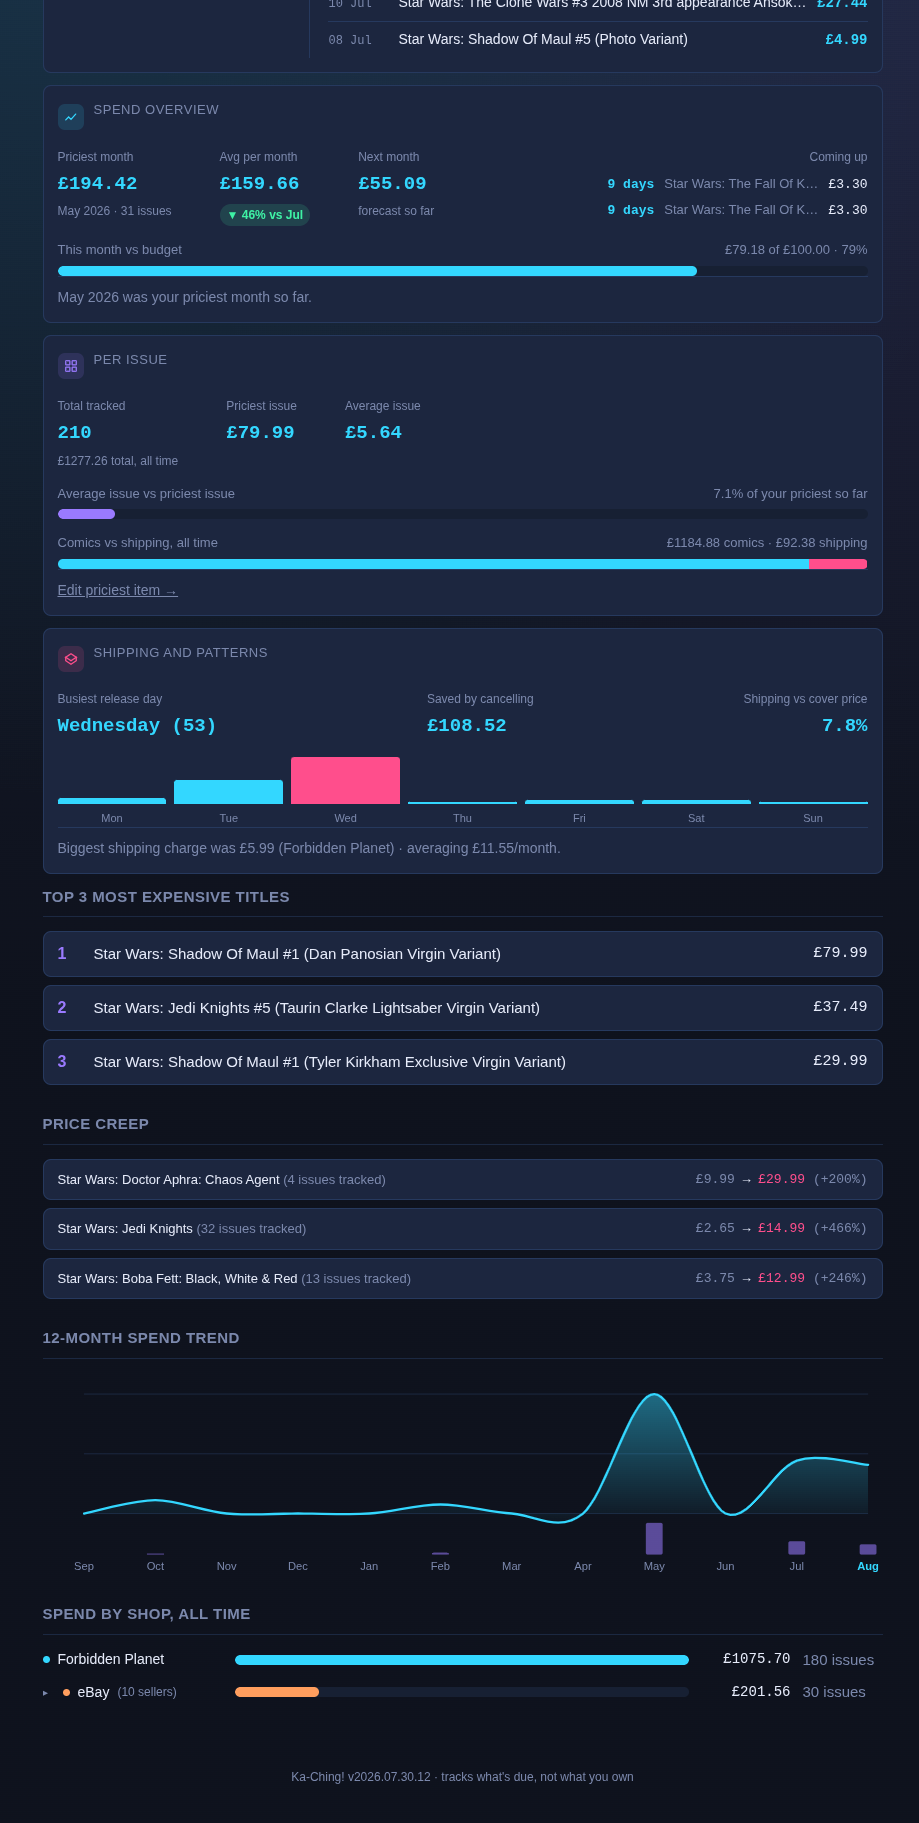
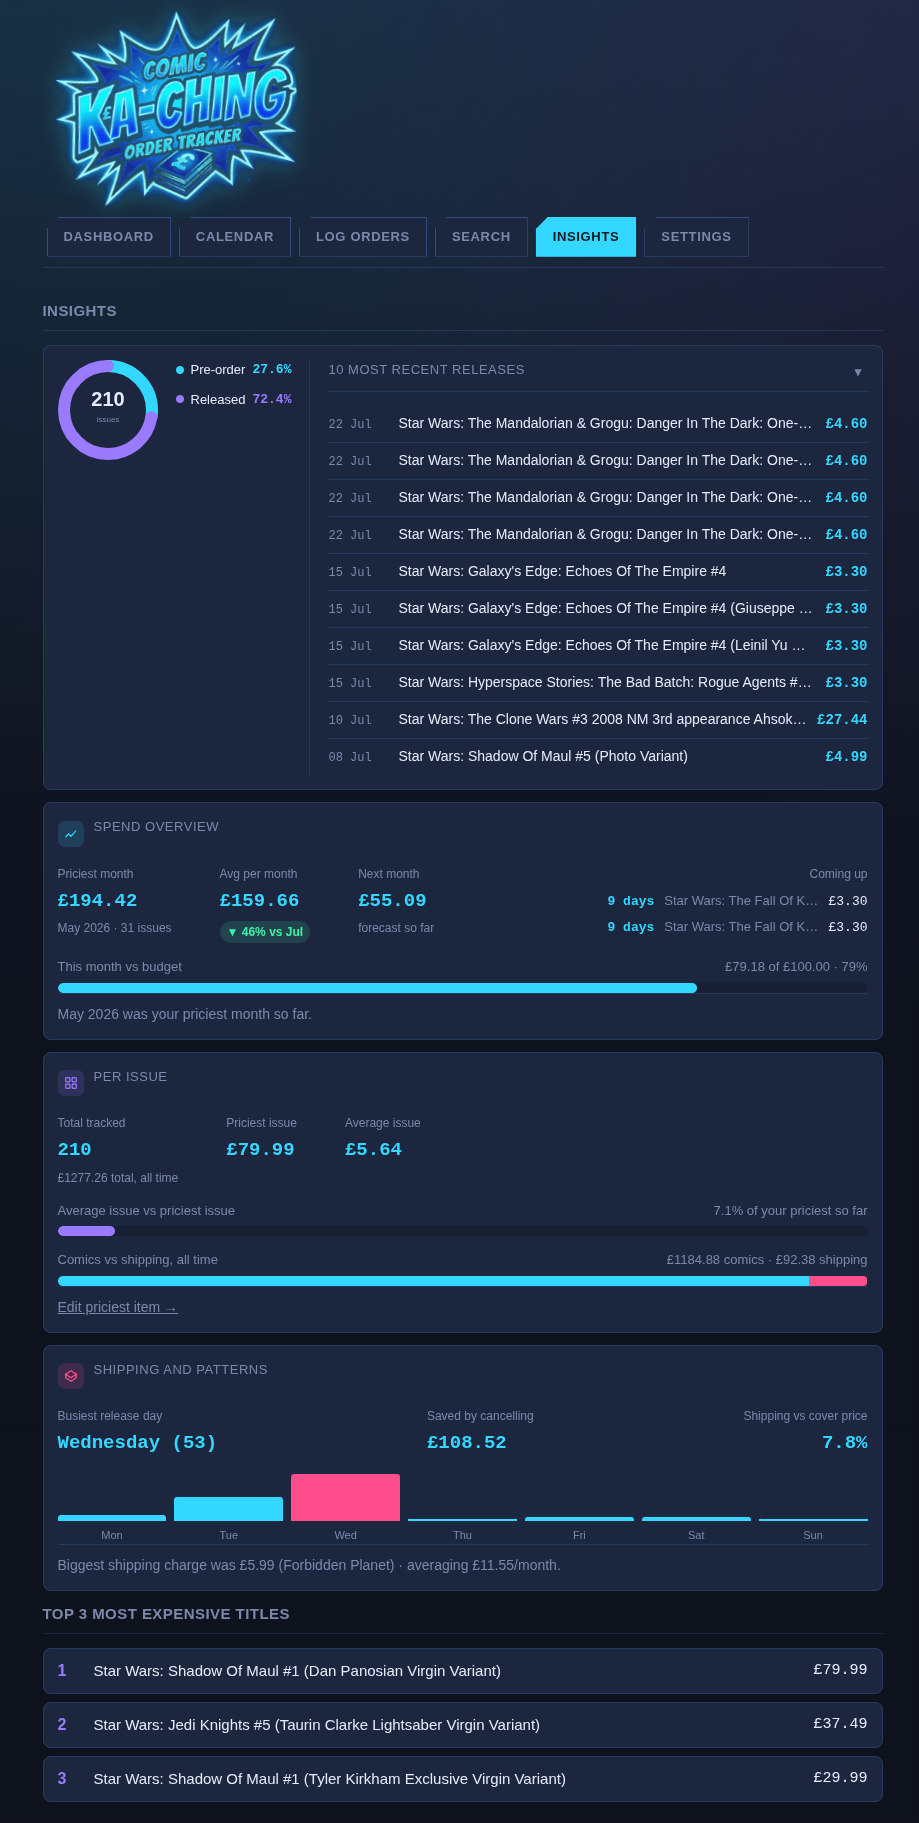
Add second Insights screenshot to gallery, fix search/insights mix-up

diff --git a/README.md b/README.md
@@ -62,6 +62,12 @@ Click any screenshot to view it full-size.
 <td><a href="screenshots/insights.png"><img src="screenshots/insights.png" width="400"></a></td>
 <td><a href="screenshots/settings.png"><img src="screenshots/settings.png" width="400"></a></td>
 </tr>
+<tr>
+<th>Insights (continued)</th>
+</tr>
+<tr>
+<td><a href="screenshots/insights-2.png"><img src="screenshots/insights-2.png" width="400"></a></td>
+</tr>
 </table>
 
 ### Running in Dockge
